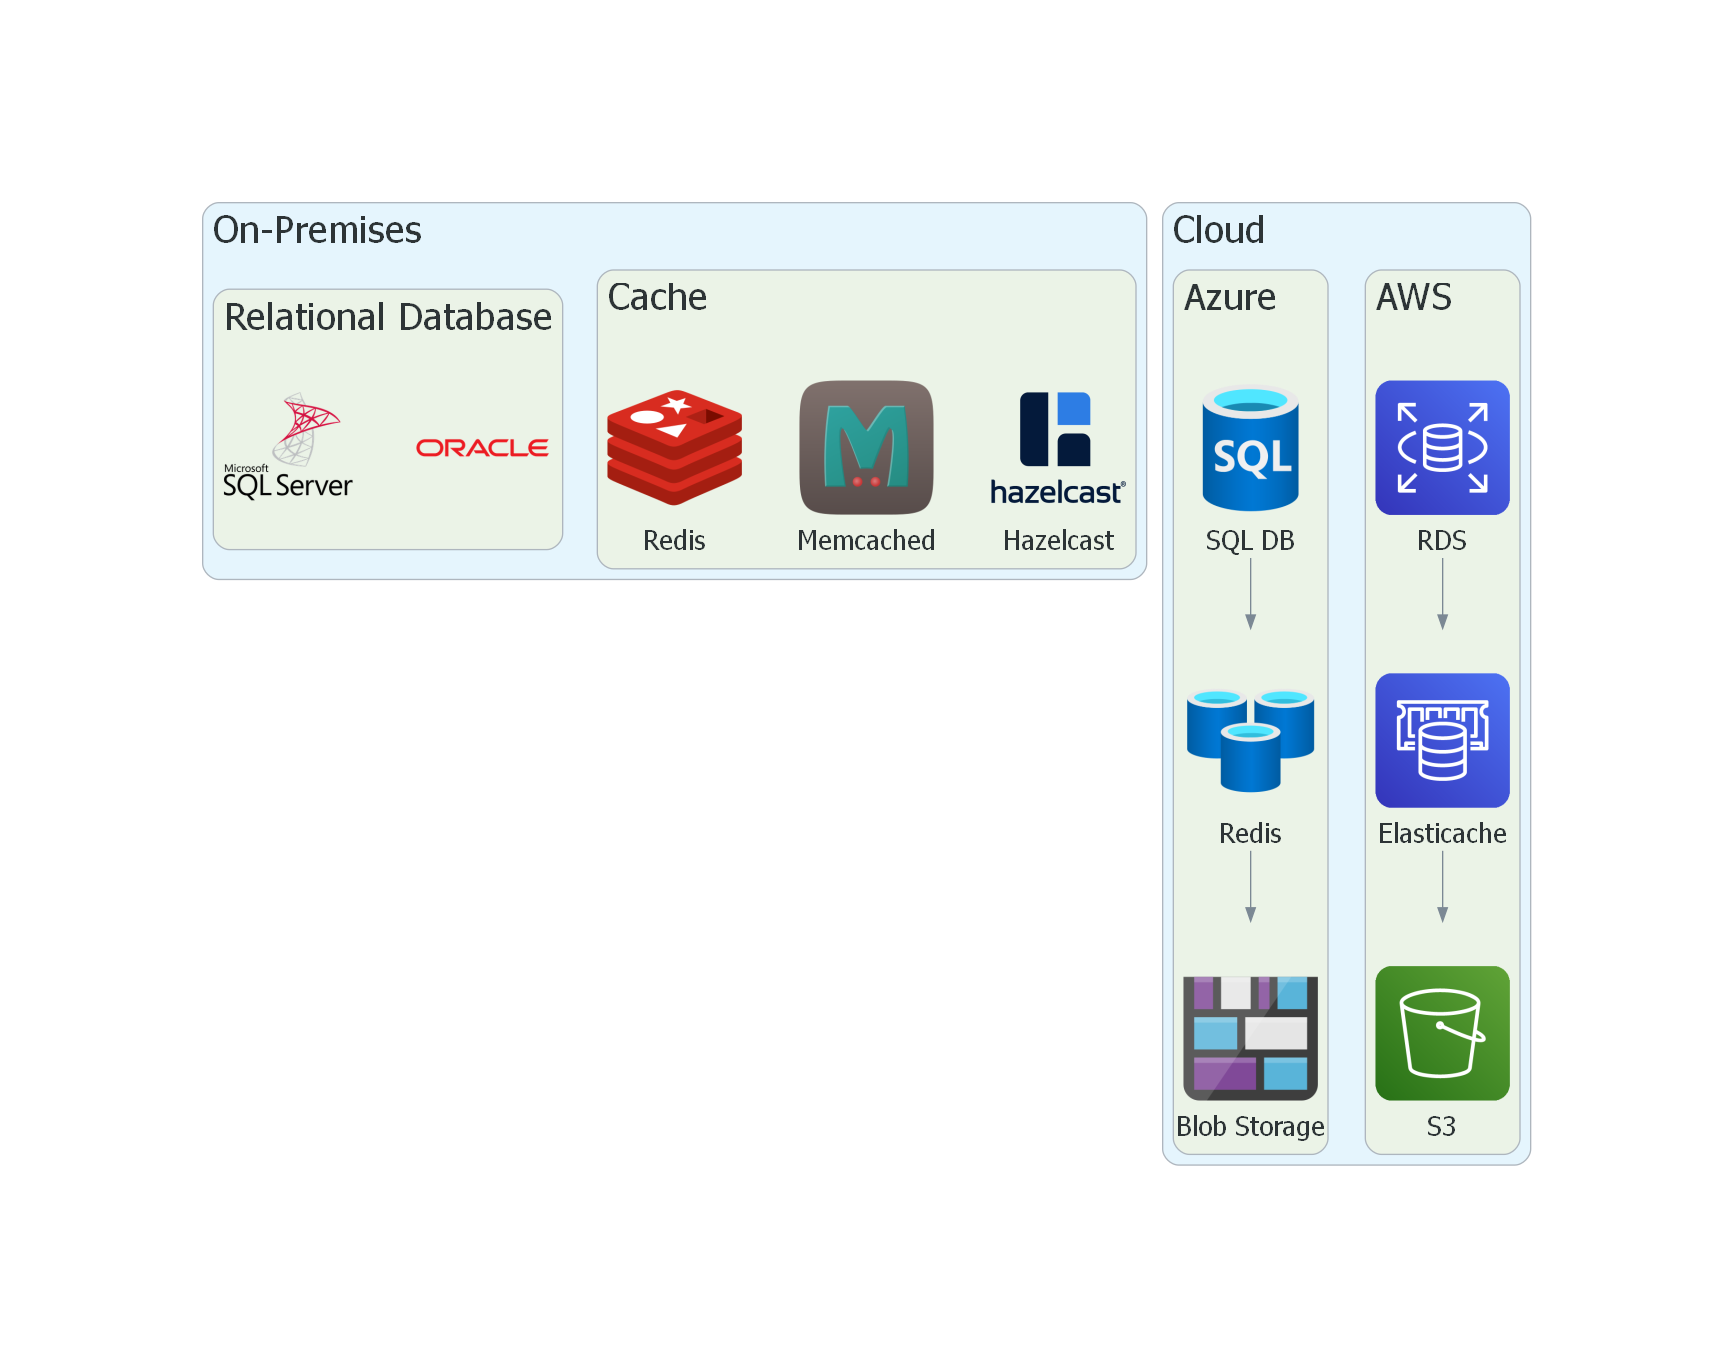
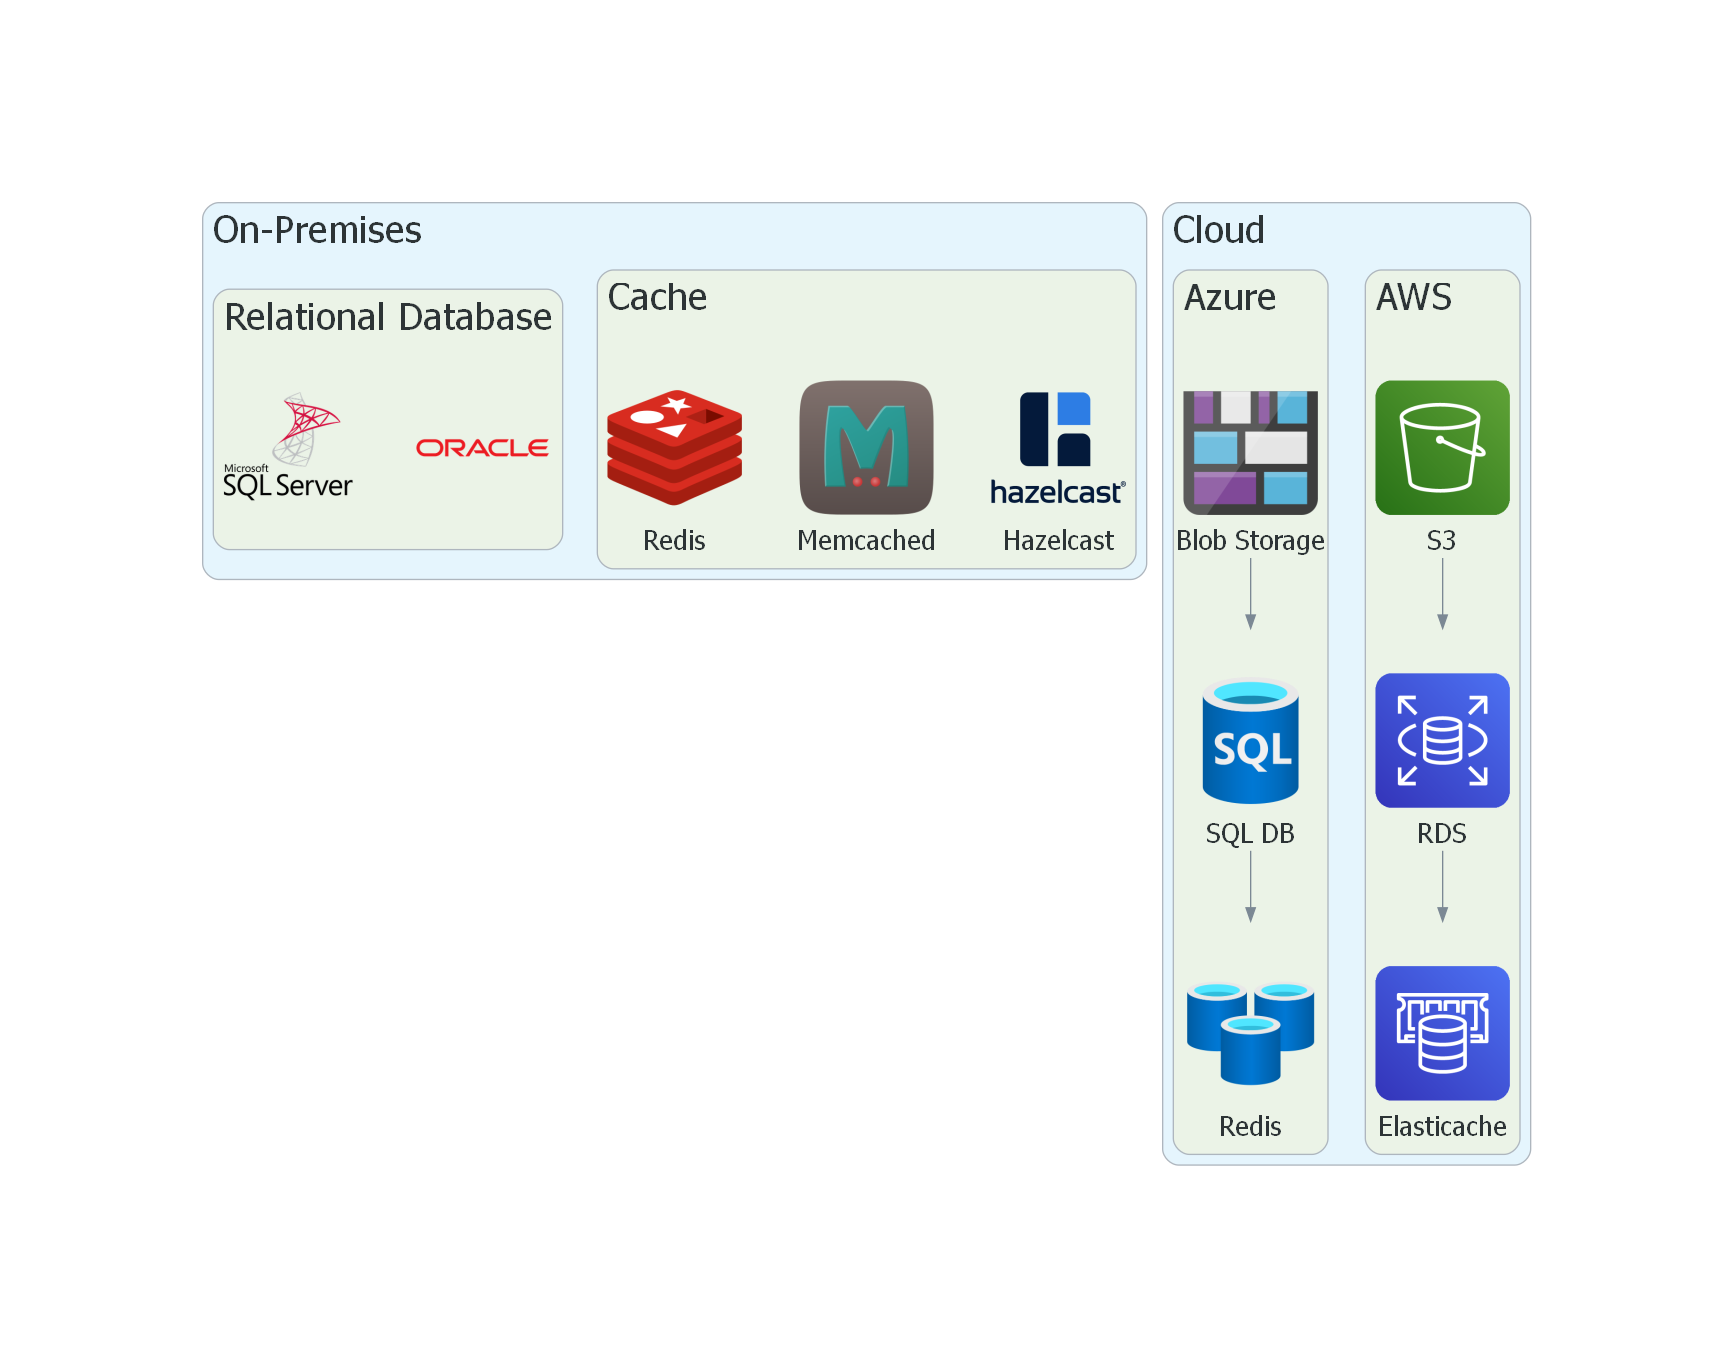
Fix image

diff --git a/code/04_KeyValuePlayers.py b/code/04_KeyValuePlayers.py
@@ -22,7 +22,7 @@ with Diagram("", show=False, direction="TB", node_attr=node_attr):
 
     with Cluster("Cloud", graph_attr=graph_attr):
         with Cluster("Azure", graph_attr=graph_attr):
-                azure = [SQLDatabases("\nSQL DB")] >> CacheForRedis("\nRedis") >> BlobStorage("\nBlob Storage")
+                azure = BlobStorage("\nBlob Storage") >> SQLDatabases("\nSQL DB") >> CacheForRedis("\nRedis")
         with Cluster("AWS", graph_attr=graph_attr):
-            aws = [RDS("\nRDS")] >> Elasticache("\nElasticache") >> S3("\nS3")
+            aws = S3("\nS3") >> RDS("\nRDS") >> Elasticache("\nElasticache")
         
